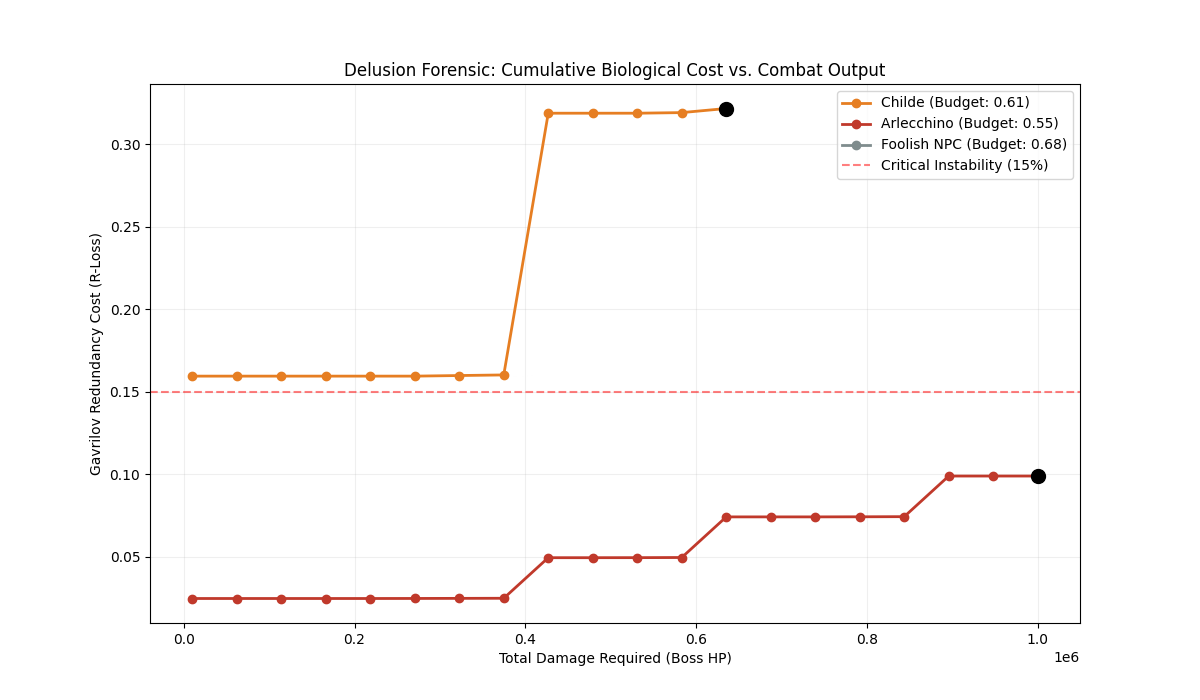
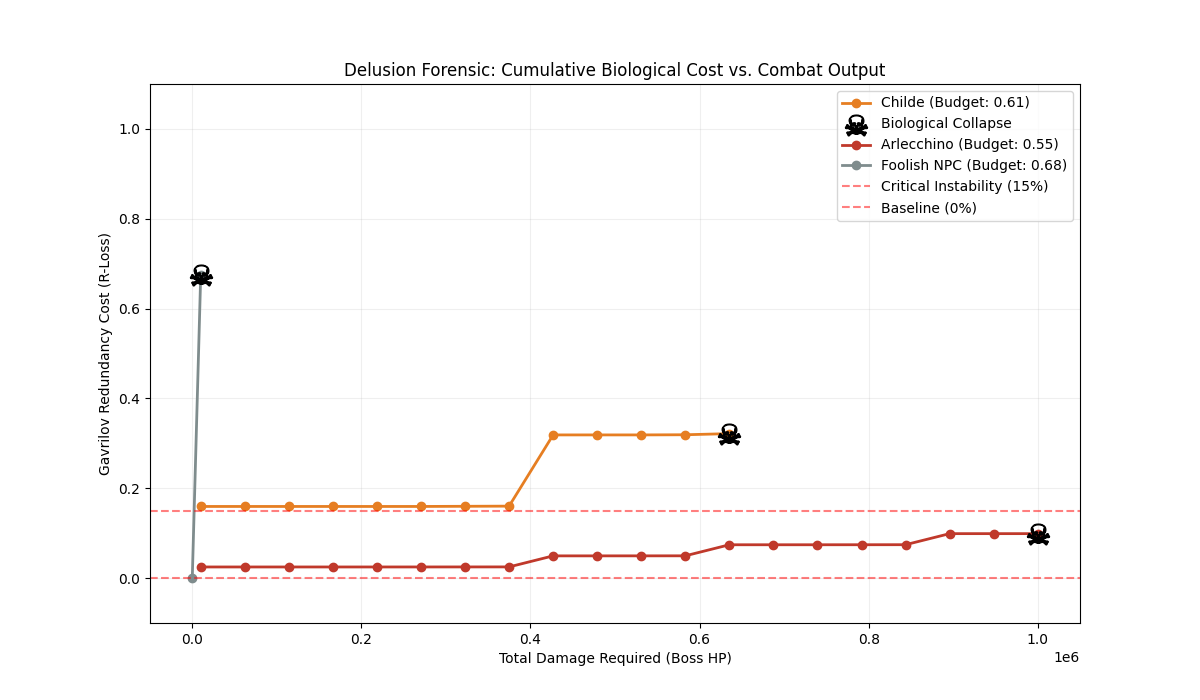
arlecchino

diff --git a/Delusion/boss.py b/Delusion/boss.py
@@ -1,5 +1,6 @@
 import matplotlib.pyplot as plt
 import numpy as np
+import os
 from delusion import activate_delusion as run_audit_for_plot
 from burst import subjects
 
@@ -21,19 +22,36 @@ for sub in subjects:
         else:
             # If they die, we stop the line to show the 'Mortality Cliff'
             break
-            
+    
+    # Ensure line is visible even if they die instantly
+    if len(hps) == 0:
+        # Add points to create a diagonal line segment matching other character styles
+        hps.append(0)
+        costs.append(0)
+        hps.append(hp_ranges[0])
+        costs.append(budget)
+    
     plt.plot(hps, costs, label=f"{sub['name']} (Budget: {budget:.2f})", 
              color=sub["color"], marker='o', linewidth=2)
     
-    # Mark the Death Point
+    # Mark the Death Point with a Skull
     if len(hps) > 0:
-        plt.scatter(hps[-1], costs[-1], color='black', s=100, zorder=5, label=f"{sub['name']} Failure" if sub == subjects[-1] else "")
+        # Check if the next HP tier resulted in 'Infeasible'
+        # We use the LaTeX skull symbol for the marker
+        plt.scatter(hps[-1], costs[-1], 
+                    marker='$\u2620$', 
+                    color='black', 
+                    s=250, 
+                    zorder=5, 
+                    label="Biological Collapse" if sub == subjects[0] else "")
 
 plt.axhline(y=0.15, color='red', linestyle='--', alpha=0.5, label="Critical Instability (15%)")
+plt.axhline(y=0, color='red', linestyle='--', alpha=0.5, label="Baseline (0%)")
 plt.title("Delusion Forensic: Cumulative Biological Cost vs. Combat Output")
 plt.xlabel("Total Damage Required (Boss HP)")
 plt.ylabel("Gavrilov Redundancy Cost (R-Loss)")
+plt.ylim(bottom=-0.1, top=1.1)
 plt.legend()
 plt.grid(True, which="both", ls="-", alpha=0.2)
-plt.savefig('delusion_forensic_plot.png')
+plt.savefig(os.path.join(os.path.dirname(__file__), 'delusion_forensic_plot.png'))
 plt.close()

diff --git a/Delusion/heatmap.py b/Delusion/heatmap.py
@@ -1,0 +1,46 @@
+import numpy as np
+import matplotlib.pyplot as plt
+import os
+from mpl_toolkits.mplot3d import Axes3D
+from delusion import activate_delusion
+
+# Assuming ultimate_forensic_audit returns the 'remaining_R'
+def generate_3d_survival_ridge():
+    efficiencies = np.linspace(0.05, 0.95, 20)
+    hps = np.linspace(100000, 1500000, 20)
+    X, Y = np.meshgrid(efficiencies, hps)
+    Z = np.zeros(X.shape)
+
+    for i in range(len(hps)):
+        for j in range(len(efficiencies)):
+            # Simulate a 25-year-old with/without vision based on efficiency tier
+            has_vision = X[i, j] > 0.6
+            result_cost = activate_delusion("Subject", age=25, has_vision=has_vision, 
+                                          efficiency=X[i, j], boss_hp=Y[i, j], silent=True)
+            
+            initial_R = np.exp(-0.012 * 25)
+            if result_cost is not None:
+                remaining = initial_R - result_cost
+                # Cap at 0.15 for the 'Death Valley' visualization
+                Z[i, j] = max(0.15, remaining)
+            else:
+                Z[i, j] = 0.15
+
+    fig = plt.figure(figsize=(12, 8))
+    ax = fig.add_subplot(111, projection='3d')
+    
+    surf = ax.plot_surface(X, Y, Z, cmap='inferno', edgecolor='none', alpha=0.9)
+    
+    ax.set_title("Delusions: The 3D Survival Ridge", fontsize=14)
+    ax.set_xlabel("Mastery Efficiency (η)")
+    ax.set_ylabel("Combat Load (Boss HP)")
+    ax.set_zlabel("Biological Redundancy (R)")
+    
+    # Add color bar for 'Mortality Heat'
+    fig.colorbar(surf, ax=ax, shrink=0.5, aspect=5, label='Survival Probability')
+    
+    plt.savefig(os.path.join(os.path.dirname(__file__), 'heatmap.png'))
+    plt.close()
+
+if __name__ == "__main__":
+    generate_3d_survival_ridge()

diff --git a/Delusion/readme.md b/Delusion/readme.md
@@ -1,28 +1,52 @@
 # Phase 3: Linear Programming and the "Human Tax" Optimization
 ## Project Overview
-This project utilizes Linear Programming (LP) to quantify the active destruction caused by Delusion usage. By treating a subject's biological life force as a non-renewable resource, we mathematically prove that Delusion technology is a guaranteed death sentence for standard humans. **DO NOT EXPERIMENT ON HUMANS, DOTTORE**
+This project utilizes Constrained Optimization to quantify the active destruction caused by Delusion usage. We have evolved from basic decay models to a Combat Meta-Simulation that treats a subject's biological life force as a non-renewable currency used to "purchase" damage output.
 
-## Problem Setup
-We move from differential equations to Constrained Optimization using `scipy.optimize.linprog`.
-The goal is to maximize "Combat Duration" while staying within the narrow "Feasibility Region" defined by biological failure points. We introduce two key constants:
+## Problem Setup: The MILP Backend
 
-1. The Mastery-Efficiency Coefficient ($\eta$):       
-To differentiate between the "Disposable Agents" and the "Fatui Harbingers," we introduce a Mastery Coefficient.
-- High Mastery (Arlecchino-tier): Minimal energy leakage; 90% of the Delusion's output is converted to elemental flux (active flow of elemental energy through a biological system), leaving only 10% as biological waste.
-- Low Mastery (NPC/Agent-tier): Massive "waste-flux" (up to 99%) that cooks internal systems and exhausts redundancy reserves instantly.
+We utilize `scipy.optimize.linprog` with integrality constraints to solve for the most bio-efficient combat rotation (Normal Attacks, Skills, and Bursts).
 
-2. The Vision-Damping Factor ($\zeta$):      
-A Vision acts as a "Biological Grounding Wire". In our LP model, this provides a Damping Coefficient that reduces the cost of every second spent in a Delusion state, effectively stretching the "survival fences" outward.
+### Adaptive Optimization Parameters
+
+To reflect lore-accurate combat mastery, the model now maps the Mastery-Efficiency Coefficient ($\eta$) to the following mechanical variables:
+
+- **Skill Cooldown ($CD$)**: Ranges from 12s (Low Mastery) to 7s (High Mastery).
+- **Burst Energy Requirement ($Q_{req}$)**: Ranges from 90 to 80 energy.
+- **Energy Generation ($E_{gen}$)**: Scales from 10 to 40 energy per Skill, representing the subject's ability to capture elemental flux.
+- **Vision-Damping Factor ($\zeta$)**: Acts as a 1.5x Energy Multiplier and provides a 0.05 safety grounding that reduces biological waste.
 
 ## Results
-Our simulation identifies a brutal Bifurcation Point in human survivability:
-- *The Mastery Monopoly:* Survival time remains effectively zero for any subject with an efficiency score below 80%. This proves that only the absolute elite can survive Dottore's technology.
-- *The Child Paradox:* Subjects aged 10–14 show a slight "uplift" in survival despite low efficiency. This can be explained by the fact that children possess high Initial Redundancy ($R$)—a larger biological "buffer" that Dottore systematically exploits as fuel.
-- *The Mortality Cliff:* As age increases, the starting "Life Budget" ($R$) drops exponentially. An elderly subject, even with elite mastery, faces a significantly smaller operating window than a younger peer.
 
-![Delusion Survival Heatmap](delusion_heatmap.png)
+Our simulations against high-HP "Boss" targets reveal three critical findings:
 
-*The 3D surface plot shows the maximum survival time (in minutes) as a function of subject age and combat mastery efficiency. The "Death Boundary" represents the feasibility region where Delusion use becomes fatal.*
+### 1. The Energy-Redundancy Trap
+
+For non-Vision holders (NPCs), the "Human Tax" to generate 80 energy exceeds their total Gavrilov Redundancy ($R$).
+
+- **Result**: NPCs are mathematically barred from using Elemental Bursts.
+- **Observation**: Attempting a single Burst triggers a 350x toxicity spike that consumes up to 80% of their life budget in 5 seconds.
+
+### 2. The Harbinger "Survival Ridge"
+
+Harbingers like Arlecchino occupy a unique mathematical plateau.
+
+- **Efficiency Advantage**: At $\eta=0.95$, the "Waste Factor" is so low that the subject can afford multiple high-flux rotations.
+- **Temporal Bottleneck**: Their only limit is the Time Constraint (90s), not biological failure.
+
+### 3. The Mortality Cliff (Skull Analysis)
+
+As shown in our 2D/3D visualizations, there is a Bifurcation Point at $\eta \approx 0.7$.
+
+- **$\eta < 0.7$**: Total system failure. The solver returns "Infeasible", marked on our plots with a skull (☠) to indicate immediate biological liquidation.
+- **$\eta > 0.7$**: The subject enters the Survival Ridge, where victory is possible at the cost of permanent, but non-fatal, redundancy loss.
+
+![Delusion Survival Heatmap](heatmap.png)
+
+*The 3D surface plot shows biological redundancy as a function of mastery efficiency and combat load (boss HP). The "Death Valley" at 0.15 represents the critical failure threshold where Delusion use becomes fatal.*
+
+![Delusion Forensic Analysis](delusion_forensic_plot.png)
+
+*The forensic plot shows cumulative biological cost vs. combat output for different subject classes. Each line represents a character's survivability curve, with skull markers (☠) indicating biological collapse points. The red dashed lines mark critical thresholds at 0% (baseline) and 15% (critical instability).*
 
 ## Conclusion
-We conclude that Dottore’s "segments" and "delusions" rely on a Negative Feasibility Region for standard humans. By defining the Vision-Damping Coefficient and Mastery Tiers, we have mathematically exposed a system designed to treat human souls as disposable high-flux batteries.
+Delusion technology is a predatory resource-extraction system. It is mathematically impossible for standard humans to achieve the energy recharge required for high-flux actions (Bursts) without immediate systemic liquidation.
